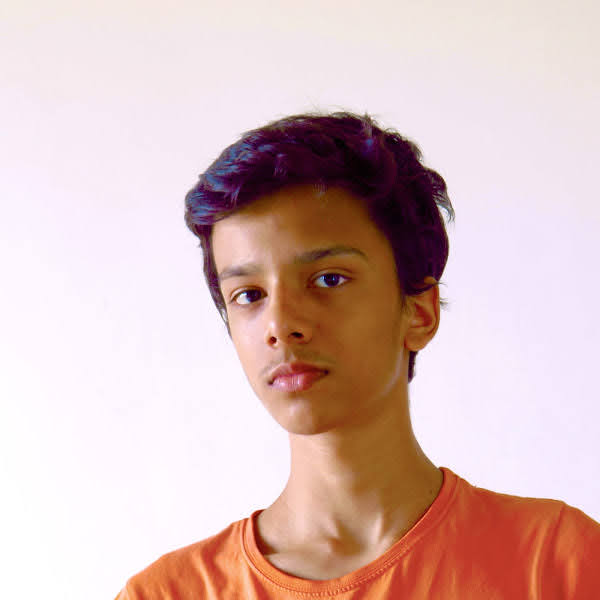
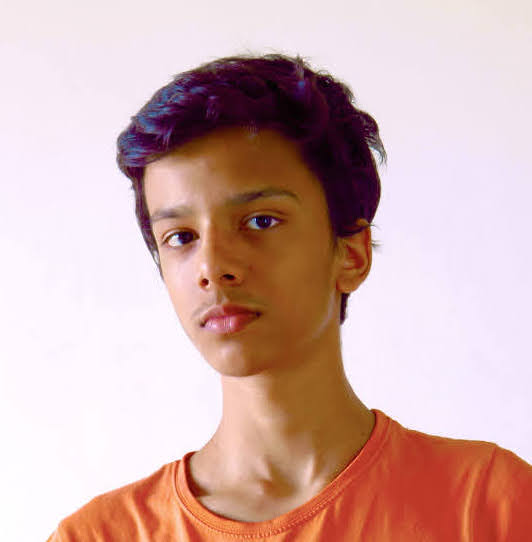
update

Changed region(s): [[0.0902, 0.0886, 1.0, 1.0]]

diff --git a/index.html b/index.html
@@ -56,10 +56,7 @@
         </p>
       </div>
     </section>
-    <!--  -->
-    <!--  -->
-    <!--  -->
-    <!-- <div class="netilfy-submissions">
+    <div class="netilfy-submissions">
       <form name="contact" method="POST" data-netlify="true">
         <p>
           <label>Your Name: <input type="text" name="name" /></label>
@@ -74,10 +71,7 @@
           <button type="submit">Send</button>
         </p>
       </form>
-    </div> -->
-    <!--  -->
-    <!--  -->
-    <!--  -->
+    </div>
     <section class="Carrier-Summary"></section>
   </body>
 </html>

diff --git a/CSS/custom.scss b/CSS/custom.scss
@@ -16,7 +16,14 @@ body {
     align-items: center;
     justify-content: space-around;
     .headshot {
-      width: 25%;
+      width: 20%;
+      border-top-color: #4285f4;
+      border-right-color: #ea4335;
+      border-bottom-color: #fbbc05;
+      border-left-color: #34a853;
+      border-style: solid;
+      border-radius: 1em;
+      border-width: 0.75em;
     }
   }
 }

diff --git a/CSS/custom.css b/CSS/custom.css
@@ -27,7 +27,14 @@ body {
 }
 
 .first .hero .headshot {
-  width: 25%;
+  width: 20%;
+  border-top-color: #4285f4;
+  border-right-color: #ea4335;
+  border-bottom-color: #fbbc05;
+  border-left-color: #34a853;
+  border-style: solid;
+  border-radius: 1em;
+  border-width: 0.75em;
 }
 
 .about-me {
